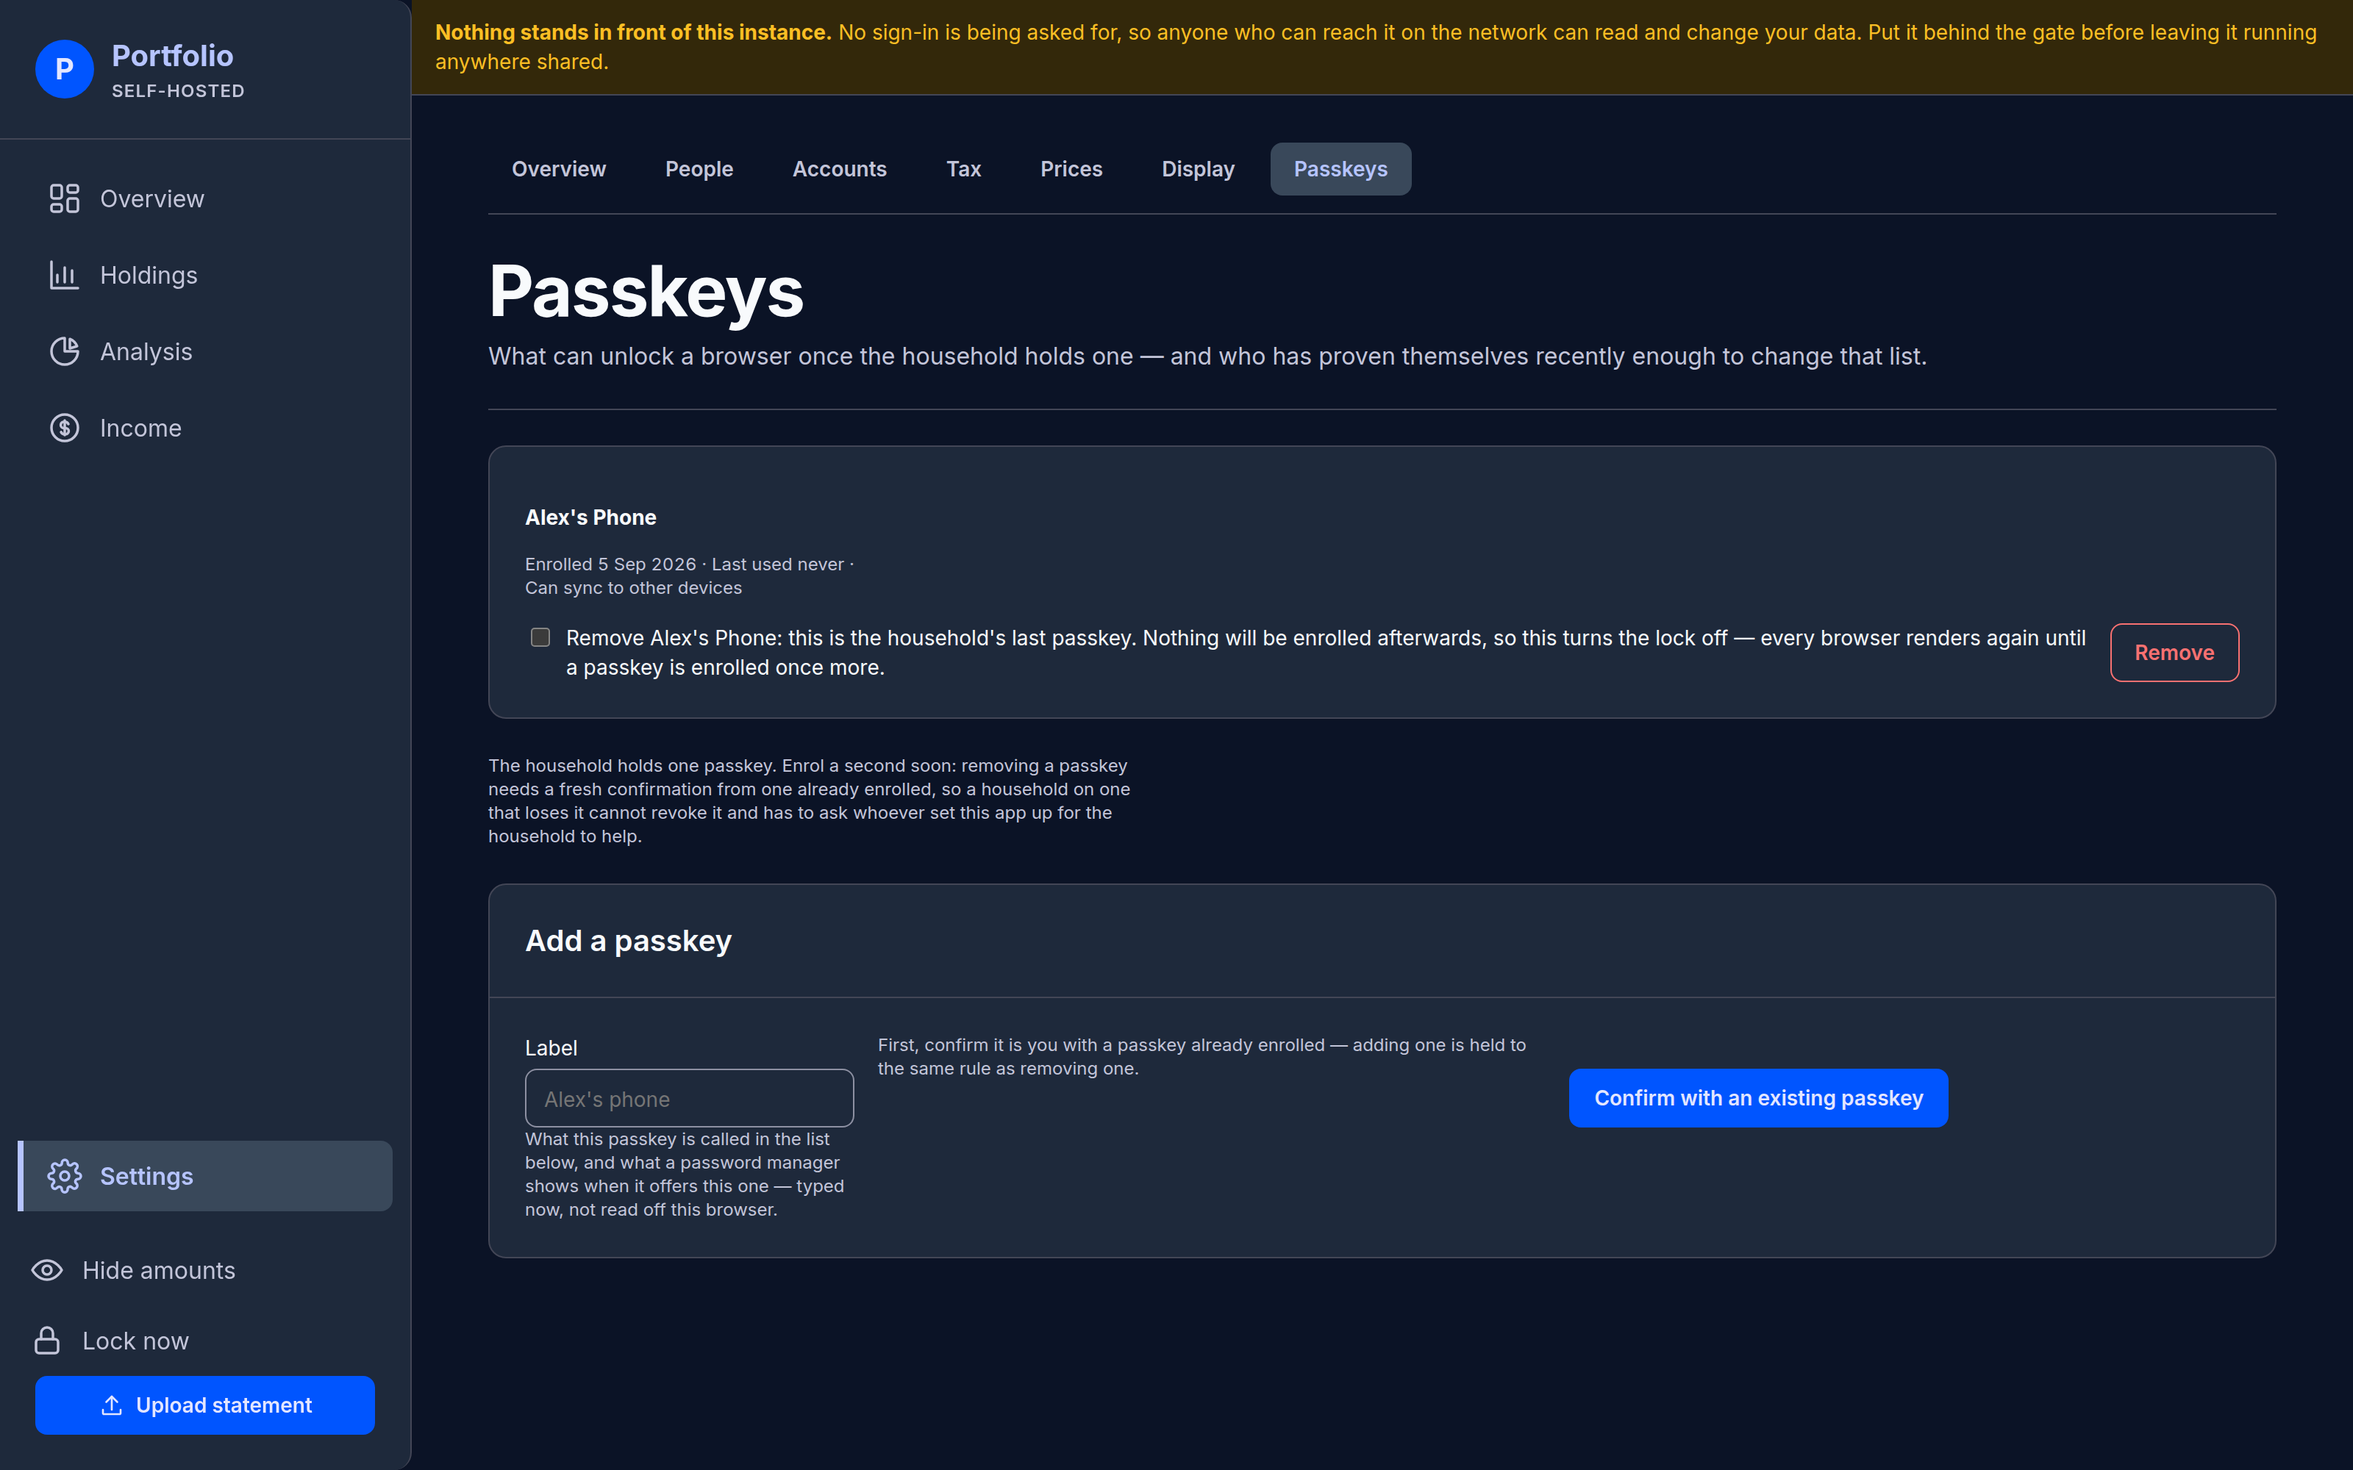
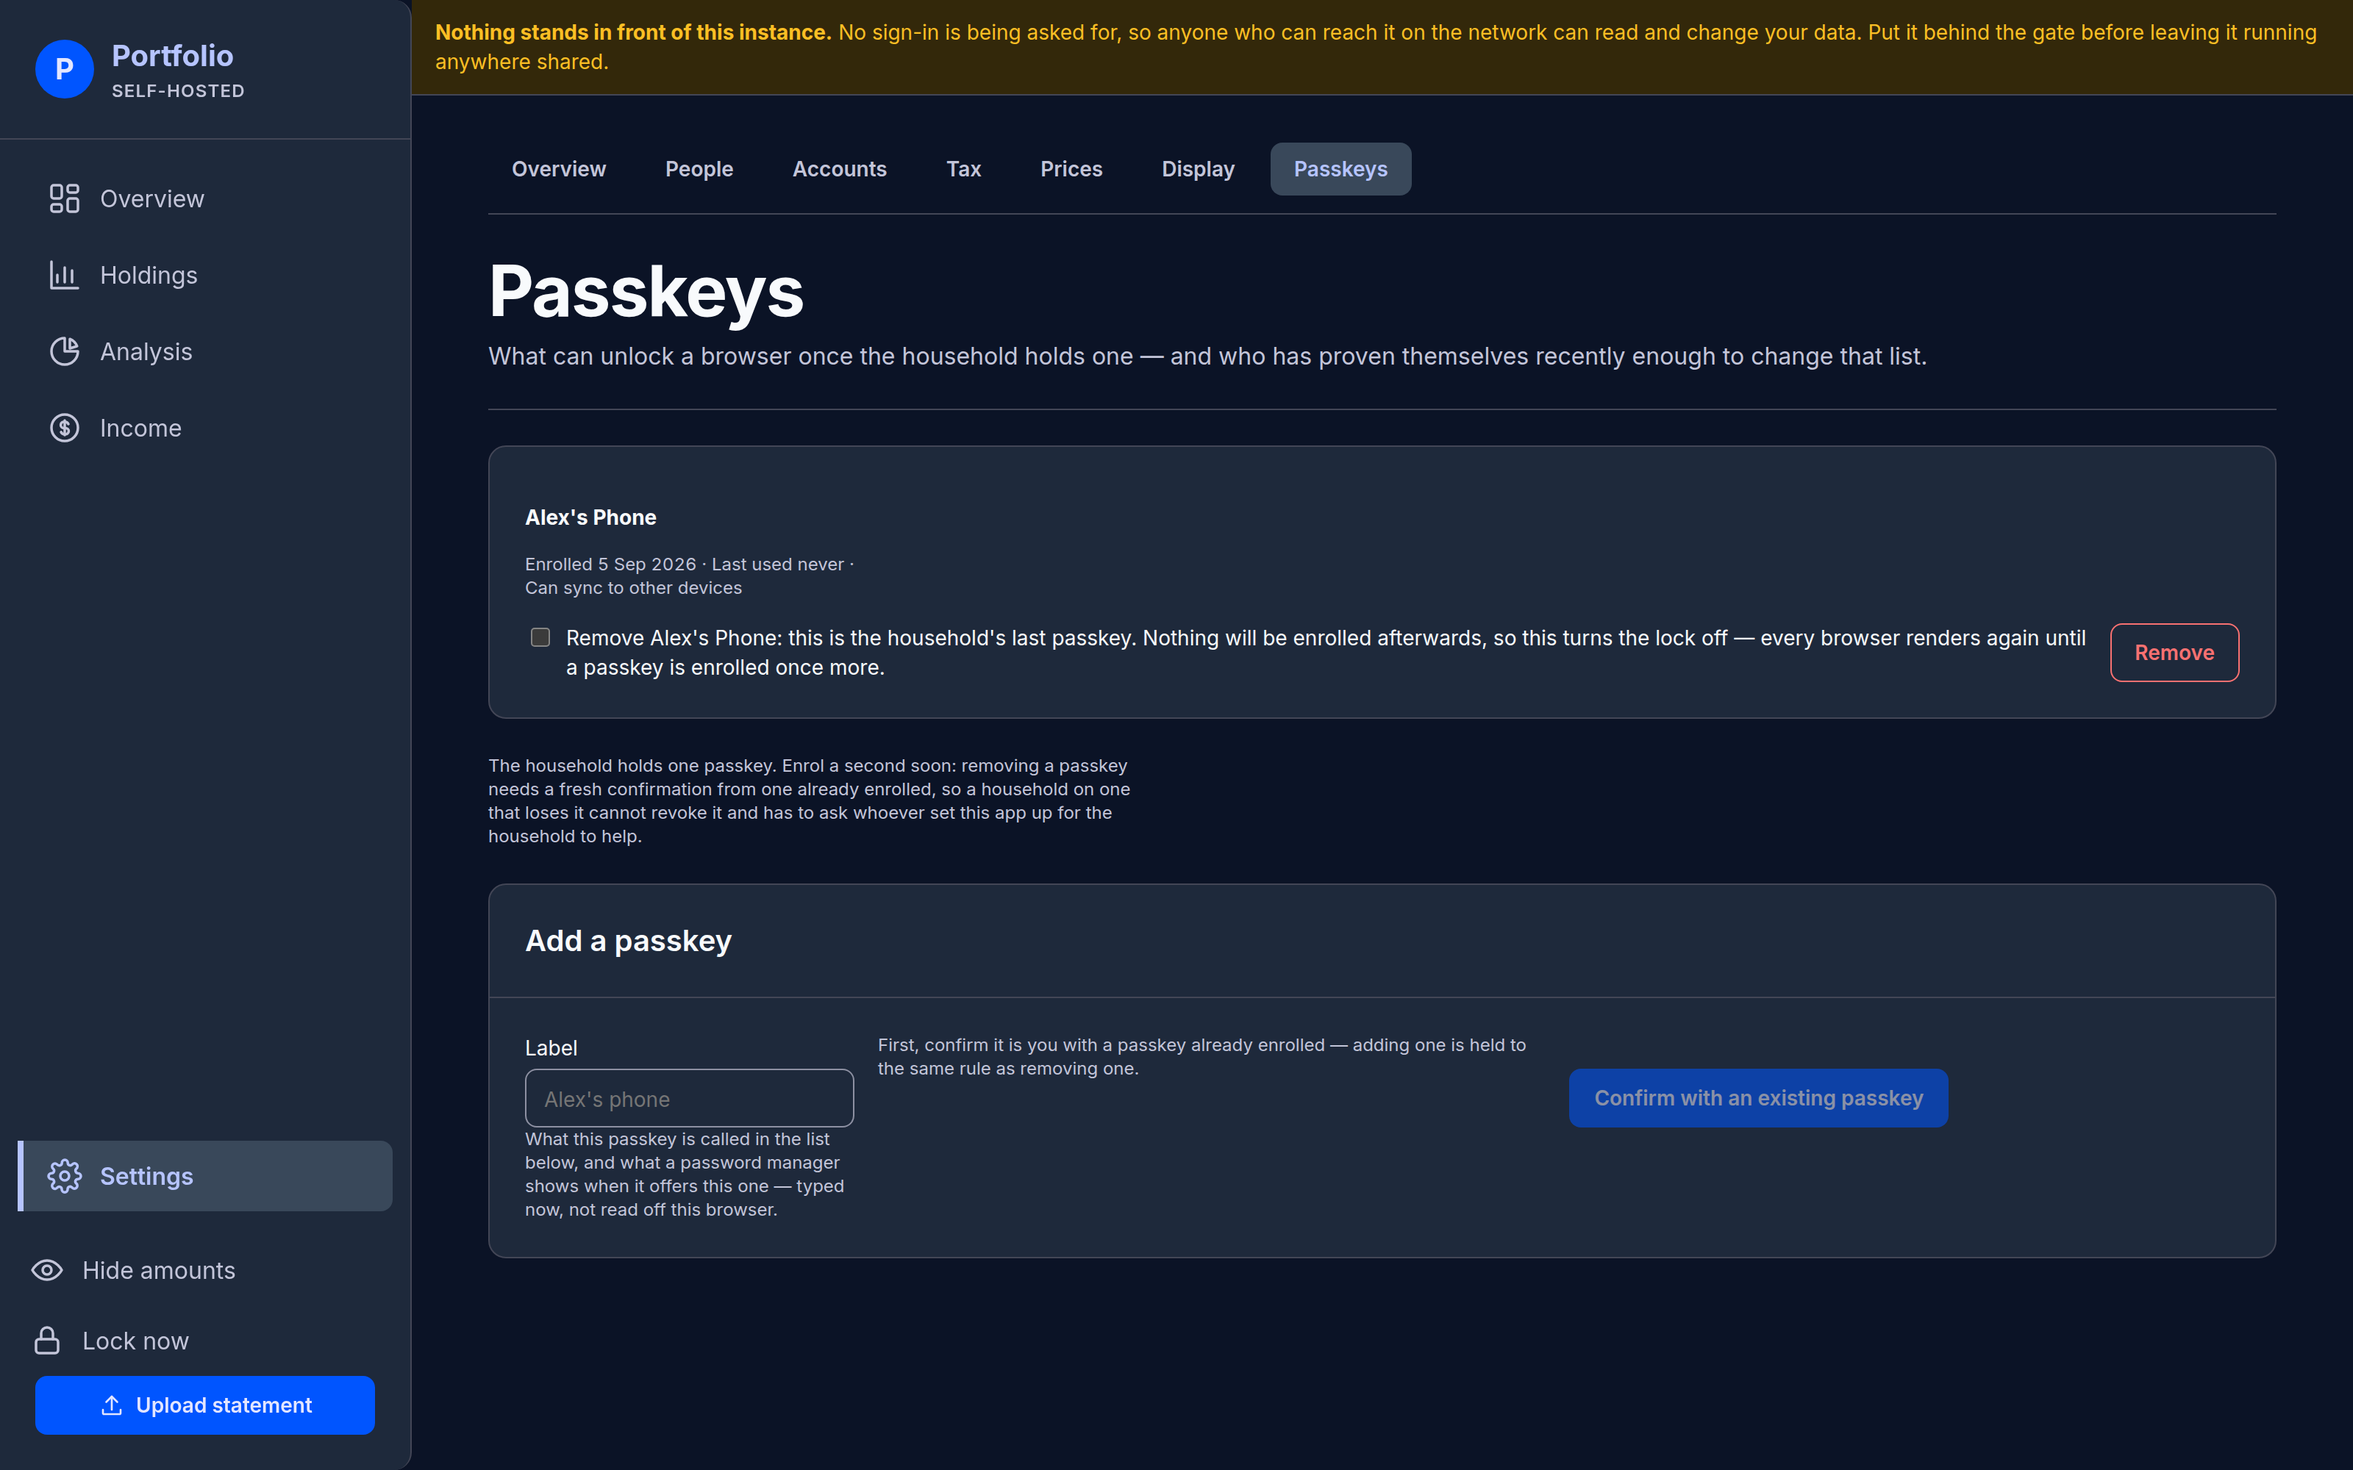
Say what the family will actually see
The guide was wrong in four places a reader would act on, and the launch
review found each of them beside the code that contradicts it.

Step 4 does not answer with a message when somebody else enrols the
household's first passkey mid-form — that is the one case that produces no
message at all, because the browser is locked from that moment and the next
press never reaches the action. The guide now says what the reader actually
sees, which is the unlock screen with one button, and where the passkey they
were about to make can be added once they are back in. The messages step 4
can print are about the label, and for those the label and the tick are kept,
so pressing Continue again is right. A browser that cannot run the ceremony
does not lack a button either: Continue renders first and is replaced by a
line once the page has loaded.

"Press Lock now on that device" cannot be followed on a page drawn before
the household held any passkey, because the control is drawn off a flag that
page baked in when there was nothing to lock. What does work is opening
another screen or waiting, and the two automatic triggers are named where
the reader already is.

"Until it does" promised a retry that does not exist: a lock request that
cannot reach the app is not tried again, the screen stays as it was until
the next tap, and what holds underneath is the idle window rather than the
courtesy. Two costs of that trigger are now stated rather than discovered —
[…]

Changed region(s): [[0.6562, 0.713, 0.8438, 0.775]]

diff --git a/app/app.css b/app/app.css
@@ -2033,6 +2033,21 @@ a.account-row:hover {
   background: color-mix(in srgb, var(--primary-container) 88%, black);
 }
 
+/* Dimmer, and nothing else.
+   Until this rule a disabled `.button` looked identical to an enabled one, so
+   the family guide's "It stays greyed out until both the label and the tick
+   are done" described nothing. Deliberately not `.refresh-button:disabled`'s
+   shape below, which keeps full contrast and `cursor: progress` because its
+   disabled state means *busy* and says so. A `.button` is disabled for both
+   reasons — forbidden until the enrolment form is complete, and busy while a
+   passkey ceremony runs on the unlock screen — so this claims neither: no
+   `not-allowed` cursor over a button that is merely working, and no colour
+   change to argue with either meaning. */
+.button:disabled {
+  opacity: 0.55;
+  cursor: default;
+}
+
 .button svg {
   width: 18px;
   height: 18px;

diff --git a/docs/guide/passkeys.md b/docs/guide/passkeys.md
@@ -19,6 +19,11 @@ check answer different questions, and passing one does nothing for the other.
 And it is one browser at a time. Unlocking your phone does nothing for your laptop, or for anyone
 else's phone — each stays exactly as locked or unlocked as it already was.
 
+Being unlocked is something the browser itself then carries, like a ticket rather than a promise
+about you: anybody who could copy what it carries would be unlocked too, until it runs out. Nothing
+normally can — but it is why a phone is best handed over locked rather than unlocked, and why
+pressing **Lock now** before you hand it over is worth the second it takes.
+
 ## Setting it up: the first passkey
 
 **The one thing most worth knowing before you press anything: enrolling the household's first
@@ -28,10 +33,13 @@ that instant, every other phone and laptop in the house is locked, and will ask 
 next time anyone opens it. Only the browser doing the enrolling is spared.
 
 One thing it does not do is wipe a screen somebody is already looking at. A phone left open on the
-overview keeps showing those figures until it asks for something new — tapping through to another
-screen, or pulling to refresh, is what turns it into the unlock screen. If you want a particular
-screen gone *right now*, press **Lock now** on that device; enrolling from somewhere else is not the
-way to clear it.
+overview keeps showing those figures until it asks the app for something new — tapping through to
+another screen, or pulling to refresh, is what turns it into the unlock screen. Two things do that
+without anybody tapping, and both are described under [When it locks
+itself](#when-it-locks-itself-and-locking-it-yourself): switching away from that phone for about a
+minute and coming back to it, and its own clock running out. What will *not* work is looking for
+**Lock now** on that device — a page drawn before the household held any passkey has no such
+control, because there was nothing to lock when it was drawn.
 
 Enrolling that very first passkey skips only one thing every later one needs: checking in with a
 passkey you already have, first — there is nothing yet to check yourself against. It still takes two
@@ -64,12 +72,20 @@ it was last used, and whether it can sync to your other devices. **This browser 
 enrolling never locks the browser that did the enrolling. Every other one in the household is locked
 from its next request onward.
 
-If step 4 answers with a message instead of taking you on to step 5, something refused the attempt —
-most often somebody else enrolling the household's first passkey while you were still filling this
-in. Read what it says, then press **Continue** again if it still applies. That is not the same as a
-browser that cannot do passkeys at all: in that case there is no button to press in the first place,
-and a line where it would be says so — [what to do then](#if-a-browser-cannot-run-the-check-at-all)
-is its own section below.
+If step 4 answers with a message instead of taking you on to step 5, it is about what you typed: a
+label that is missing, longer than 60 characters, or carrying a character this app will not store.
+Your label and your tick are both kept, so read what it says, fix it and press **Continue** again.
+
+The case that does *not* produce a message is the one worth knowing about. If somebody else enrols
+the household's first passkey while you are still filling this in, your browser is locked from that
+moment like every other, so your next press never reaches the form: you land on **Locked**, with one
+**Unlock** button and nothing else. Unlocking takes you to the overview, and the passkey you were
+about to make can still be added from Settings → Passkeys once you are back in — behind a check with
+an existing passkey now, since the household holds one.
+
+A browser that cannot do passkeys at all is different again: **Continue** is there when the page
+first appears and is replaced by a line saying so once the page has finished loading — [what to do
+then](#if-a-browser-cannot-run-the-check-at-all) is its own section below.
 
 Once it has worked, [enrol a second one](#removing-a-passkey) before long — a household on exactly
 one has no way to remove it if it goes missing.
@@ -87,7 +103,10 @@ The other way round is narrower than it sounds: a single device can hold more th
 usually only when a different provider makes the second one, or a separate authenticator sits
 alongside the device's own vault. Asking the same vault for a second passkey for this app usually
 does not work — it already recognises this app from the first and refuses to create another, rather
-than quietly making a second. Settings → Passkeys lists each one the household holds, and marks
+than quietly making a second. What you see when it refuses is the provider's own sentence, in its
+own words rather than this app's ("The authenticator was previously registered", in Chrome), and
+the form stays where it was, still waiting for a creation that cannot happen. Reloading the page is
+how to start over from there. Settings → Passkeys lists each one the household holds, and marks
 whether it is the kind that *can* be handed to your other devices that way, or whether it is tied to
 the one device that made it.
 
@@ -133,19 +152,33 @@ stays unlocked; one left open and forgotten does not.
 
 **Stepping away for around a minute does the same, sooner.** Switch away to another app or tab, or
 lock your phone, for about that long, and coming back to this one asks the app to lock it right
-away — even if the fifteen-minute clock above still had plenty of time left. That ask has to reach
-the app before the lock actually takes hold, so on a slow connection, or with none at all, whatever
-was already on the screen can stay up longer than you would expect, until it does. That is
-deliberate, not a glitch: a browser left behind and unlocked, even briefly, is exactly the situation
-this feature exists to close off.
+away — even if the fifteen-minute clock above still had plenty of time left. That is deliberate, not
+a glitch: a browser left behind and unlocked, even briefly, is exactly the situation this feature
+exists to close off.
 
-Neither of those needs you to do anything, and neither is a fault if it catches you off guard the
-first few times — it is the lock doing its job while you were not looking, not a random failure. **Lock
-now**, beside **Show amounts** in the navigation, is the one you control directly, and it does not wait
-on either clock — but pressing it is itself a request to the app, the same as the automatic checks
-above, so on a slow connection, or with none at all, whatever was already on the screen can stay up a
-moment longer than you would expect before it actually locks. Handing your phone to someone, even for a
-minute, is exactly when to press it first.
+**That ask is a request like any other, and nothing retries it.** If it cannot reach the app — no
+connection, or something in the way — the screen simply stays as it was until the next tap; there is
+no second attempt on its way. What still holds underneath is the clock above: with nothing reaching
+the app at all, the browser is locked somewhere between about seven and a half and fifteen minutes
+later regardless. That clock is the guarantee; this is the courtesy that usually gets there first.
+
+**A tab opened in the background counts as hidden from the moment it opened.** Open a link without
+switching to it, then look at it a minute or two later, and that first look is a return after the
+gap: the browser locks itself right then, even though that tab never went anywhere. One unlock, and
+it behaves normally from there.
+
+**A sign-in bounce while the app is hidden may leave the browser as it was.** Every browser passes
+Google's sign-in again about weekly, and if that falls due while this app is out of sight, the lock's
+own request is redirected into the sign-in instead of reaching the app — so it can come back
+unlocked, until its own clock runs out.
+
+None of those needs you to do anything, and none is a fault if it catches you off guard the first few
+times — it is the lock doing its job while you were not looking, not a random failure. **Lock now** —
+the padlock, at the foot of the side rail on a wide screen and in the bar across the top on a phone,
+where it may show as the padlock alone with no words beside it — is the one you control directly, and
+it does not wait on either clock. It is a request to the app like the others, so on a slow connection
+whatever was on the screen can stay up a moment longer before it actually locks. Handing your phone to
+someone, even for a minute, is exactly when to press it first.
 
 ## Removing a passkey
 

diff --git a/docs/guide/first-run.md b/docs/guide/first-run.md
@@ -20,8 +20,11 @@ What is not there, so you do not go looking for it:
   keeps. Nothing in the app adds you to it.
 - **No account each, inside the app.** Everyone who gets in sees the same screens and can change the
   same things — see [People and accounts](people-and-accounts.md#add-the-people).
-- **No sign-out control.** Closing the tab does not sign you out. If a phone is lost or a device
-  should stop getting in, tell whoever runs the instance — that is done from outside the app.
+- **No sign-out control.** Closing the tab does not sign you out. If a phone is lost, and the
+  household has enrolled passkeys, revoke that phone's from Settings → Passkeys on any browser that
+  is still unlocked — see [Removing a passkey](passkeys.md#removing-a-passkey). Whoever runs the
+  instance is the recovery only when no passkey can be reached at all, and stopping an address
+  getting in through the front door is still theirs to do, from outside the app.
 
 **If sign-in finishes and you get an error instead of the app**, you signed in with an address that
 is not on the list. There is nothing to retry: ask whoever runs the instance to add the address you

diff --git a/docs/guide/when-something-is-refused.md b/docs/guide/when-something-is-refused.md
@@ -76,8 +76,10 @@ a closed account still counts on every date before it closed, so its owner is st
 The refusal names each account in the way. Change the owner on those accounts, then remove the
 person.
 
-Nothing in this application deletes anything, so this is the shape of most "no" answers here: an
-account is closed rather than deleted, a correction is a new record rather than an overwrite.
+Almost nothing in this application deletes anything, so this is the shape of most "no" answers here:
+an account is closed rather than deleted, a correction is a new record rather than an overwrite. What
+does delete, immediately and with no undo: removing a person once they own nothing at all, and
+removing a passkey on Settings → Passkeys — see [Passkeys and the lock](passkeys.md).
 
 ## The review screen wants a sentence ticked
 
